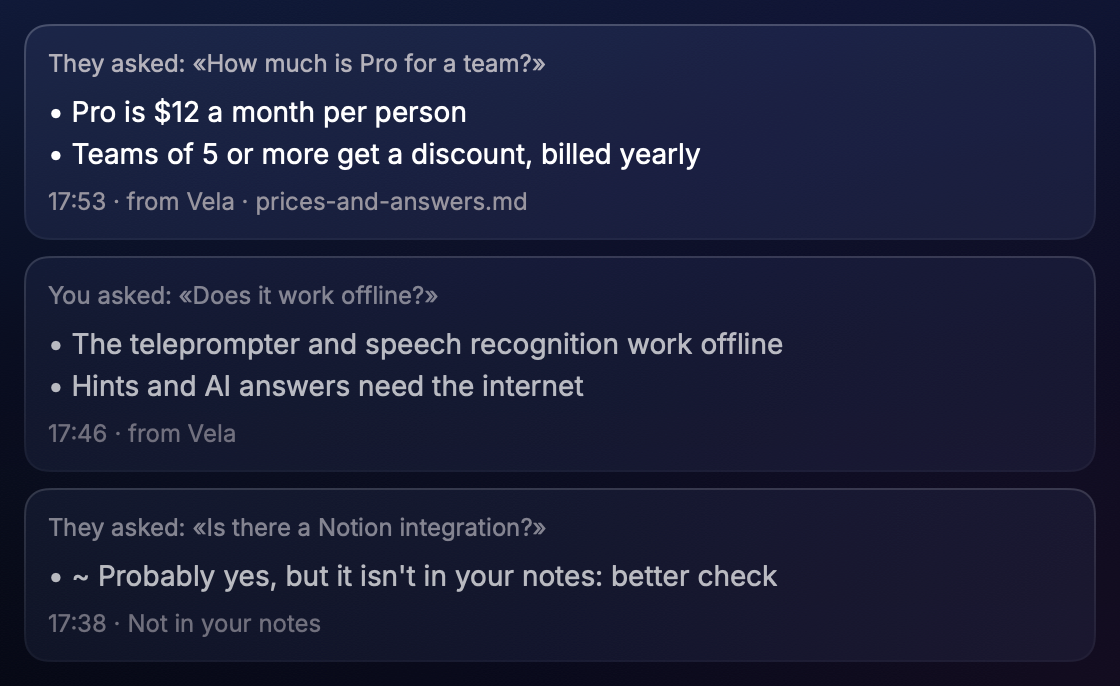
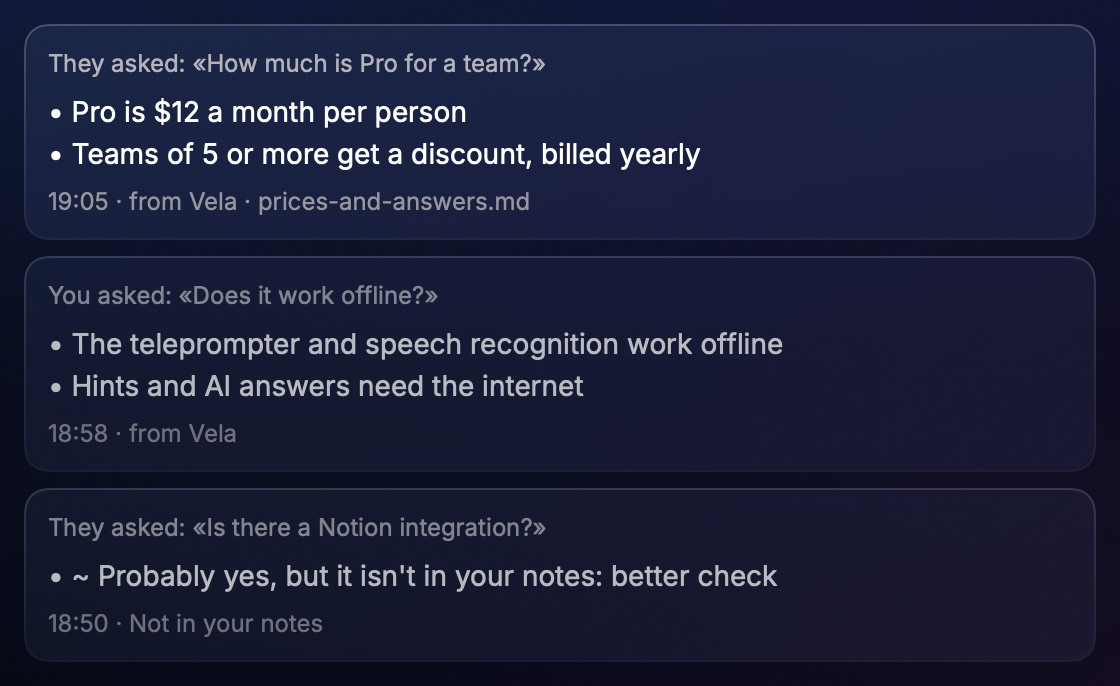
Every tab with an English screenshot and a description

Changed region(s): [[0.0312, 0.2755, 0.4688, 0.3061], [0.0312, 0.8878, 0.2812, 0.9184], [0.0312, 0.6122, 0.2188, 0.6429]]

diff --git a/README.md b/README.md
@@ -55,59 +55,93 @@ Vela asks for a license key the first time it opens. **The key is free**, and ge
 
 ## What it does
 
-Move the mouse to the notch and Vela opens. Move away and it's gone.
+Move the mouse to the notch and Vela opens. Move away and it's gone. Each tab on the left is one part of Vela, and you can turn off the ones you don't use: they disappear and stop running.
 
-### ⏱ Focus
+### 🏠 Home
 
 <img src="assets/focus.png" alt="Focus timer with a task" width="720">
 
-A Pomodoro timer on Home. Pick a task from Jira, ClickUp, Asana or Notion and Vela tracks the time on it. It can block the sites and apps you choose while you focus, play your focus music, and remind you to rest your eyes every 20 minutes.
+Your day at a glance. A **focus timer** (Pomodoro) on top: pick a task from Jira, ClickUp, Asana or Notion and Vela counts the time on it. It can block the sites and apps you choose while you focus and remind you to rest your eyes. Below it, cards you arrange yourself: notes, reminders, the last meeting, music, AI usage and more.
 
-### ✨ AI assistant
+<img src="assets/stats.png" alt="Focus stats for the week" width="720">
 
-<img src="assets/voice.png" alt="Voice assistant under the notch" width="560">
+**Focus stats**: how much you focused today and this week, your best hours, what distracted you and how many breaks you took.
 
-Ask anything by voice (**⌥ Space**) or in the notch. It sets reminders, writes notes, reads your calendar and tasks, searches the web, and works with files you allow it to. It asks before it sends, runs or deletes anything.
+### 🎵 Music
 
-<img src="assets/project.png" alt="A project with instructions, files and chats" width="420">
+<img src="assets/music.png" alt="Music tab with the song playing and up next" width="720">
 
-Keep **projects** with instructions, files and folders: every chat in a project knows them. Switch between Gemini, Claude and ChatGPT in the middle of a chat.
+YouTube Music, Apple Music, Spotify or a folder of songs on your Mac. Play, pause, skip and search without opening the app, see what's up next, and start a focus playlist together with the timer.
 
-### 📝 Anywhere you type
+### ✅ Tasks
 
-<img src="assets/selected-text.png" alt="Actions for selected text" width="720">
+<img src="assets/tasks.png" alt="Tasks from Jira, Notion, ClickUp and Asana" width="720">
 
-Select text in any app and press **⌃⌥G**: fix, translate, shorten, change the tone, or ask the AI about it. **Dictation** (⌃⌥D) types what you say where the cursor is. Make your own commands too.
+Your tasks from **Jira, Notion, ClickUp and Asana** in one list. Filter by status, sort by priority or due date, change a task's status or complete it right from the notch.
 
-### 🗒 Notes and recordings
+### 📅 Calendar
 
-<img src="assets/notes.png" alt="Notes with checklists" width="720">
+<img src="assets/calendar.png" alt="Today's meetings and the next one with Join" width="720">
 
-Write notes or record a voice note: Vela turns it into text with a title and a summary. Record calls and get a summary with decisions and tasks.
+Today's meetings from your calendars (Google, iCloud, Outlook). The next meeting stays on top with a **Join** button, and Vela reminds you before it starts.
 
-### 🎙 Meetings
+### 🗂 Shelf
+
+<img src="assets/shelf.png" alt="Clipboard history, files and screenshots" width="720">
+
+**Clipboard history**, files you drop here and your new screenshots, all at hand. Sort them into folders, search, filter by type, drag them out into any app. Take a screenshot with **⌃⌥S** and draw on it.
+
+### ⏺ Record
+
+<img src="assets/record.png" alt="Recordings with a meeting summary" width="720">
+
+Record your screen, your voice and the Mac's sound: a call, a demo, a lecture. Vela turns it into text and writes a **summary with decisions and tasks**. Speech is recognized on your Mac.
+
+### 🎧 Meeting helpers
 
 <img src="assets/teleprompter.png" alt="Teleprompter scripts" width="720">
 
-**Teleprompter**: your script scrolls over the screen while you record or present. Viewers and recordings don't see it.
+**Teleprompter**: write or open a script. It scrolls over your screen while you record or present, and nobody on the call or in the recording sees it. **⌃⌥P** shows or hides it.
 
 <img src="assets/meeting-hints.png" alt="Short hints during a call" width="560">
 
-**Meeting helper**: forgot a price or how a feature works mid-call? One key shows a short hint from your notes. Speech is recognized on your Mac, and nobody on the call sees it.
+**Meeting helper**: give it your notes, files or a project. During a call, one key shows a short hint about the question just asked, from your own notes. Others don't see it, and nothing from the call is saved.
+
+### 📝 Notes
+
+<img src="assets/notes.png" alt="Notes with a checklist" width="720">
+
+Write notes or record a **voice note**: Vela turns it into text with a title and a summary. Lists, to-dos and headings. The AI can add to a note or tidy it up, and every note keeps its version history.
+
+### ✨ Assistant
+
+<img src="assets/assistant.png" alt="AI chat with tool steps" width="720">
+
+Chat with **Gemini, Claude or ChatGPT**, or ask by voice with **⌥Space** from anywhere. It sets reminders, writes notes, reads your calendar and tasks, searches the web and works with the files you allow. It asks before it sends, runs or deletes anything. Switch the AI in the middle of a chat and it keeps going.
+
+<img src="assets/project.png" alt="A project with instructions, files and chats" width="420">
+
+**Projects**: instructions, files and folders that every chat in the project knows. One for each client, course or big task.
+
+### 🔤 Language practice
+
+<img src="assets/english.png" alt="Language practice card" width="360">
+
+Translate into your language, and get a **short daily quiz** made from your own mistakes in the language you're learning.
+
+### ⌨ Anywhere you type
+
+<img src="assets/selected-text.png" alt="Actions for selected text" width="720">
+
+Select text in any app and press **⌃⌥G**: fix, translate, shorten, change the tone, or ask the AI about it. **Dictation** (**⌃⌥D**) types what you say where the cursor is. Add your own commands too.
 
 ### 🧩 And more
 
-- **Music**: YouTube Music, Apple Music, Spotify or a folder, with the song by the notch.
-- **Calendar**: today's meetings and one click to join.
-- **Slack**: a nudge about messages you haven't answered.
-- **Shelf**: clipboard history, files and new screenshots at hand. Screenshots you can draw on.
-- **Paste queue**: copy several things, paste them one by one (**⌘E**).
-- **Window layouts**: save how your windows are arranged and bring them back with one key.
-- **Language practice**: translate into your language and get a short daily quiz from your own mistakes.
+- **Paste queue**: copy several things, then paste them one by one with **⌘E**.
+- **Window layouts**: save how your windows are arranged and put them back with one key.
+- **Backups**: everything Vela keeps, saved every day or week, and restored in one click.
 - **Telegram bot**: talk to Vela from your phone, by text or voice.
-- **Coding agents**: see Claude Code, Codex and Gemini CLI sessions on Home and answer their questions from the notch.
-
-Turn off what you don't use: it disappears everywhere and stops running.
+- **Coding agents**: see your Claude Code, Codex and Gemini CLI sessions and answer their questions from the notch.
 
 ---
 
